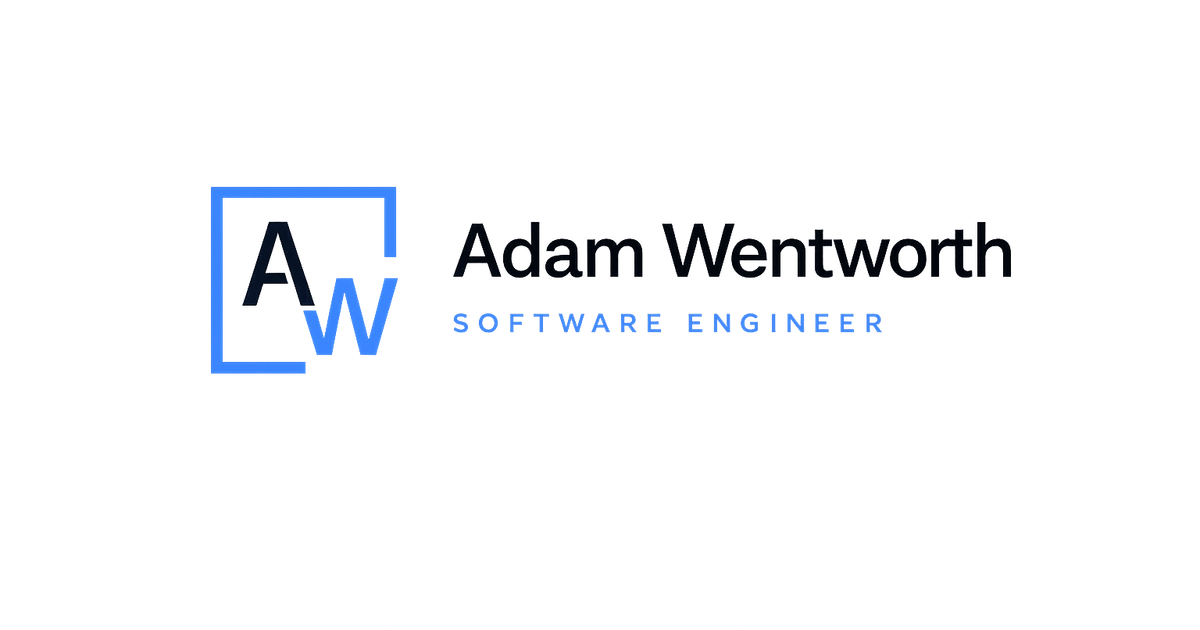
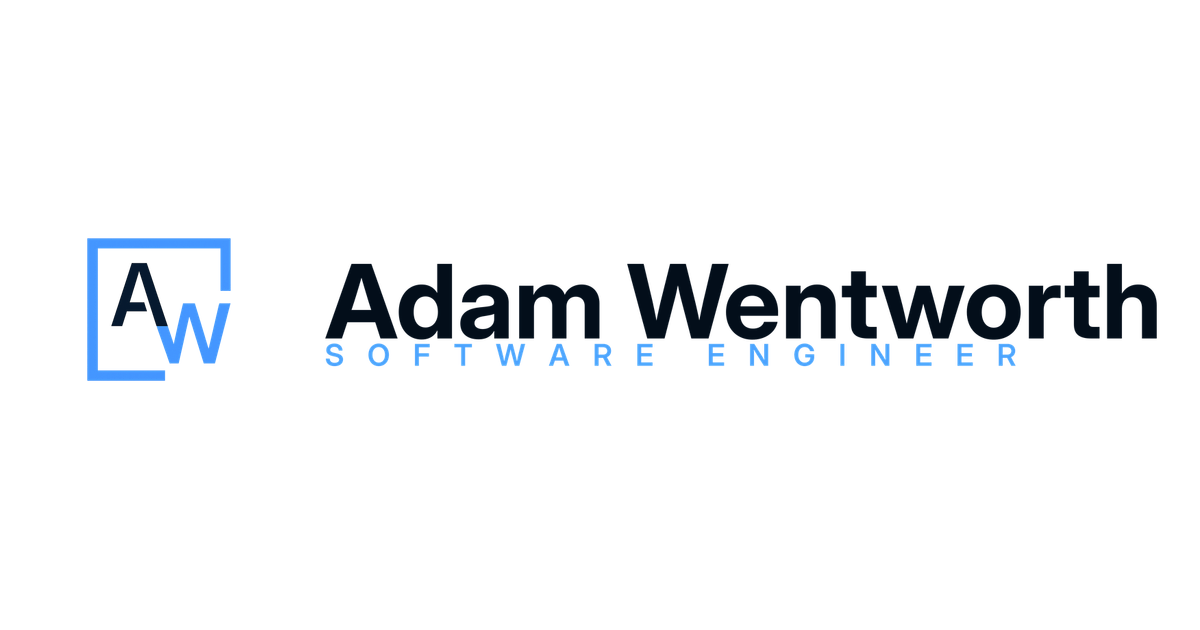
brand: tighten resume hero lockup

Changed region(s): [[0.0617, 0.2714, 0.9867, 0.6032]]

diff --git a/src/styles/global.css b/src/styles/global.css
@@ -284,7 +284,7 @@ h1 {
 .hero-title-brand {
   width: 100%;
   max-width: 760px;
-  margin-bottom: 22px;
+  margin-bottom: 14px;
   font-size: 0;
   line-height: 0;
 }
@@ -293,16 +293,16 @@ h1 {
   display: flex;
   width: 100%;
   align-items: center;
-  gap: clamp(14px, 2.4vw, 28px);
+  gap: clamp(12px, 2vw, 24px);
   overflow: hidden;
-  border-radius: 8px;
-  background: rgba(255, 255, 255, 0.46);
-  padding: clamp(16px, 2.2vw, 30px);
-  box-shadow: 0 18px 54px rgba(30, 111, 232, 0.12);
+  border-radius: 0;
+  background: transparent;
+  padding: 0;
+  box-shadow: none;
 }
 
 .hero-title-mark {
-  width: clamp(92px, 13vw, 164px);
+  width: clamp(86px, 11vw, 136px);
   height: auto;
   flex: 0 0 auto;
 }
@@ -326,7 +326,7 @@ h3 {
 
 .hero-summary {
   max-width: 720px;
-  margin-bottom: 18px;
+  margin-bottom: 14px;
   color: #1a2b42;
   font-size: 22px;
   line-height: 1.45;
@@ -343,7 +343,7 @@ h3 {
   flex-wrap: wrap;
   align-items: center;
   gap: 12px;
-  margin-top: 28px;
+  margin-top: 22px;
 }
 
 .text-link {
@@ -1109,16 +1109,16 @@ h3 {
   }
 
   .hero-title-lockup {
-    gap: 12px;
-    padding: 14px;
+    gap: 10px;
+    padding: 0;
   }
 
   .hero-title-mark {
-    width: clamp(78px, 24vw, 104px);
+    width: clamp(70px, 20vw, 88px);
   }
 
   .hero-title-wordmark {
-    max-width: calc(100% - 90px);
+    max-width: calc(100% - 80px);
   }
 
   .timeline-item {
